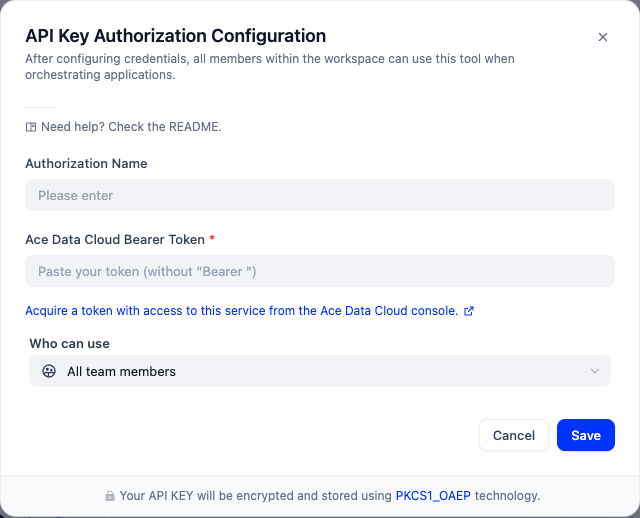
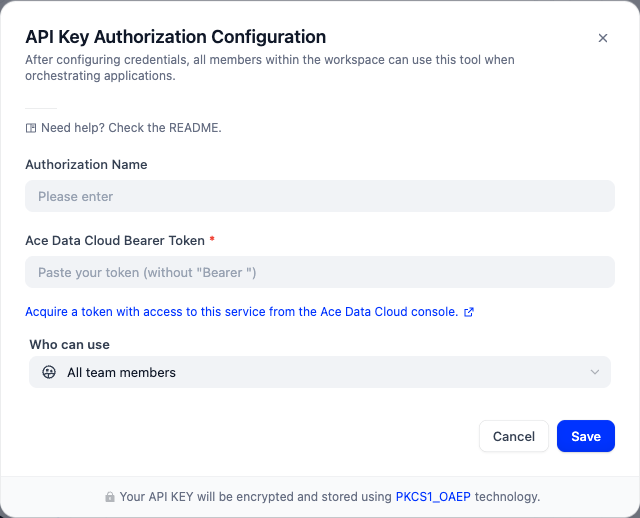
Release Nano Banana 2.1 support in Dify plugin 0.0.3 (#7)
* docs: show actual signed Marketplace installation and result

* release: prepare Nano Banana 2.1 in plugin 0.0.3

diff --git a/README.md b/README.md
@@ -4,13 +4,14 @@ Generate one Nano Banana image from a prompt. This guide takes you from your fir
 
 [Read in Simplified Chinese](https://github.com/AceDataCloud/NanoBananaDify/blob/main/readme/README_zh_Hans.md) · [API and pricing](https://platform.acedata.cloud/models)
 
-> The screenshots below show a real Dify developer preview and previously successful API task. Check the [official Marketplace listing](https://marketplace.dify.ai/plugin/acedatacloud/nano-banana) for the currently available version before installing; a merged source PR alone does not confirm publication.
 
 ## 1. Install the correct plugin
 
-Open [Nano Banana by acedatacloud](https://marketplace.dify.ai/plugin/acedatacloud/nano-banana) in Dify Marketplace. Check the author is **acedatacloud**, choose **Install**, and select your Dify workspace. If it is not listed yet, wait for publication; do not use another similarly named plugin for these steps.
+Open [Nano Banana by acedatacloud](https://marketplace.dify.ai/plugin/acedatacloud/nano-banana) in Dify Marketplace. Check the author is **acedatacloud**, choose **Install**, and select your Dify workspace. In Dify, open **Integrations → Tools → Tool Plugin → Nano Banana**.
 
 If your Dify server cannot open Marketplace, ask its administrator to enable outbound access and plugin installation. The plugin needs HTTPS to `api.acedata.cloud`.
+
+![Installed Nano Banana plugin](https://raw.githubusercontent.com/AceDataCloud/NanoBananaDify/2522b2f57210597af2db866445319334a1677a23/_assets/tutorial/01-installed.png)
 
 ## 2. Get an API key with the correct access
 
@@ -18,32 +19,32 @@ If your Dify server cannot open Marketplace, ask its administrator to enable out
 2. Open **General application**. Its API key can access multiple services your account is entitled to use. A service-specific key is limited to that service. For this tutorial, check **Nano Banana** access and current pricing/balance before generating.
 3. To reuse the selected key, click the copy icon marked **1** below. To create a separate Dify key, click **Manage Keys** marked **2**, then **Create**.
 
-![Copy an existing API key or open Manage Keys](https://raw.githubusercontent.com/AceDataCloud/NanoBananaDify/0030b9cacf315147a45af5512b6f3d485524db5c/_assets/tutorial/get-api-key-en.png)
+![Copy an existing API key or open Manage Keys](https://raw.githubusercontent.com/AceDataCloud/NanoBananaDify/2522b2f57210597af2db866445319334a1677a23/_assets/tutorial/get-api-key-en.png)
 
 4. Give the new key a name, such as `Dify tutorial`. Set expiration and usage/API restrictions only as needed, then click **Create**. Return to the key list or application card and copy the key. If **Allowed APIs** is enabled, include both the generation and task-query APIs used here: `/nano-banana/images`, `/nano-banana/tasks`.
 
-![Create an optional separate key](https://raw.githubusercontent.com/AceDataCloud/NanoBananaDify/0030b9cacf315147a45af5512b6f3d485524db5c/_assets/tutorial/create-api-key-en.png)
+![Create an optional separate key](https://raw.githubusercontent.com/AceDataCloud/NanoBananaDify/2522b2f57210597af2db866445319334a1677a23/_assets/tutorial/create-api-key-en.png)
 
-Copy only the token string. Do not add `Bearer `, quotation marks, or the screenshot's redacted characters. A platform management token (for example, a `platform-...` token) is not the generation API key this plugin expects. Free quota and model entitlement are not guaranteed.
+Copy only the token string. Do not add `Bearer `, quotation marks, or the screenshot's redacted characters. A platform management token (for example, a `platform-...` token) is not the generation API key this plugin expects. Confirm service access and a sufficient balance before the first run.
 
 ## 3. Authorize Nano Banana in Dify
 
 1. Open **Integrations → Tools → Tool Plugin → Nano Banana**.
 2. Click **API Key Authorization Configuration**. If an authorization already exists, click **1 Authorization** first, then the configuration button.
 3. Enter an **Authorization Name**, such as `Ace Data Cloud`, and paste the copied token into **Ace Data Cloud Bearer Token**.
-4. Choose who may use the credential and click **Save**. The screenshot shows the shared tool-authorization dialog; GPT Image is the pictured example. Never put a key in a prompt or workflow export.
+4. Choose who may use the credential and click **Save**. Never put a key in a prompt or workflow export.
 
-![Dify tool authorization dialog](https://raw.githubusercontent.com/AceDataCloud/NanoBananaDify/0030b9cacf315147a45af5512b6f3d485524db5c/_assets/tutorial/02-authorize.png)
+![Dify tool authorization dialog](https://raw.githubusercontent.com/AceDataCloud/NanoBananaDify/2522b2f57210597af2db866445319334a1677a23/_assets/tutorial/02-authorize.png)
 
 ## 4. Build your first Workflow
 
-Open **Studio → Create from Blank → Workflow**, name it, and create this path by dragging from each node's right connector to the next node:
+Open **Studio → Create → Create from Blank → Workflow**, name it, and create this path by dragging from each node's right connector to the next node:
 
 **Start → Nano Banana Generate Image → Nano Banana Retrieve Task → Output**.
 
 Use the **+** button to add a **Tool**, select this plugin, and choose the exact action above. Rename the generation node **Nano Banana** and the query node **Retrieve completed task** to match the screenshots. Leave Start inputs empty for this fixed first example. Keep **Retry on Failure** off on the generation node.
 
-![Workflow connections](https://raw.githubusercontent.com/AceDataCloud/NanoBananaDify/0030b9cacf315147a45af5512b6f3d485524db5c/_assets/tutorial/03-workflow.png)
+![Workflow connections](https://raw.githubusercontent.com/AceDataCloud/NanoBananaDify/2522b2f57210597af2db866445319334a1677a23/_assets/tutorial/03-workflow.png)
 
 Select **Nano Banana Generate Image** and set these fields. Leave unmentioned optional fields empty.
 
@@ -62,13 +63,13 @@ A single teal ceramic cube on a plain cream background, studio product photograp
 
 For editing, select **Nano Banana Edit Image**, set **Reference image URLs** to a JSON array such as `["https://your-domain.example/input.png"]`, and describe the change. Replace the placeholder URL with your own accessible image. Model variants have separate access and pricing.
 
-![Fill the generation or search parameters](https://raw.githubusercontent.com/AceDataCloud/NanoBananaDify/0030b9cacf315147a45af5512b6f3d485524db5c/_assets/tutorial/03-configure.png)
+![Fill the generation or search parameters](https://raw.githubusercontent.com/AceDataCloud/NanoBananaDify/2522b2f57210597af2db866445319334a1677a23/_assets/tutorial/03-configure.png)
 
 ## 5. Wait for the same task and map the result
 
-Select **Nano Banana Retrieve Task**. In **Task ID**, click the variable picker (or type `/`) and choose **Nano Banana → task_id**. It must be the output variable from the generation node, not its name typed as plain text. The DSL representation is `{{#generate.task_id#}}`. Set **Wait up to seconds** to `240`; leave Trace ID empty for this example.
+Select **Nano Banana Retrieve Task**. In **Task ID**, click the variable picker (or type `/`) and choose **Nano Banana → task_id**. It must be the output variable from the generation node, not its name typed as plain text. Set **Wait up to seconds** to `240`; leave Trace ID empty for this example.
 
-![Task ID variable binding](https://raw.githubusercontent.com/AceDataCloud/NanoBananaDify/0030b9cacf315147a45af5512b6f3d485524db5c/_assets/tutorial/04-task-id.png)
+![Task ID variable binding](https://raw.githubusercontent.com/AceDataCloud/NanoBananaDify/2522b2f57210597af2db866445319334a1677a23/_assets/tutorial/04-task-id.png)
 
 Select **Output**, click **+** to add output fields, and choose the variables below from **Retrieve completed task**:
 
@@ -80,7 +81,7 @@ Select **Output**, click **+** to add output fields, and choose the variables be
 | media_urls | media_urls | Array[String] |
 | result | result | Object |
 
-![Map the query outputs](https://raw.githubusercontent.com/AceDataCloud/NanoBananaDify/0030b9cacf315147a45af5512b6f3d485524db5c/_assets/tutorial/05-output.png)
+![Map the query outputs](https://raw.githubusercontent.com/AceDataCloud/NanoBananaDify/2522b2f57210597af2db866445319334a1677a23/_assets/tutorial/05-output.png)
 
 Click **Test Run → Start Run**. Generation may finish before the bounded wait expires; otherwise `status=pending` is normal. **Do not rerun the whole workflow while it is pending**, because that submits a new generation. Copy its task ID and create a separate **Start → Nano Banana Retrieve Task → Output** workflow with that ID and a wait of 0 or 240. Query the same ID until `status=succeeded` and `success=true`; then open the links in `media_urls`. A green Dify workflow alone is not proof that the service task finished.
 
@@ -98,9 +99,13 @@ A completed result has this shape (the URL below illustrates the field; use your
 }
 ```
 
-![Actual completed Dify result](https://raw.githubusercontent.com/AceDataCloud/NanoBananaDify/0030b9cacf315147a45af5512b6f3d485524db5c/_assets/tutorial/06-result.png)
+![Actual completed Dify result](https://raw.githubusercontent.com/AceDataCloud/NanoBananaDify/2522b2f57210597af2db866445319334a1677a23/_assets/tutorial/06-result.png)
 
-This is a real previously successful run, reused for the guide without another paid generation. Nano was tested through Dify developer preview; it does not prove Marketplace publication. Your task ID and media URL will differ.
+Actual Dify workflow after installing version 0.0.2 from the official Marketplace on October 11, 2026. The service returned a completed 1024×1024 image. Your task ID and media URL will differ.
+
+Version 0.0.3 adds `nano-banana-2.1` to generation and editing. Select it in **Model**; 1K, 2K and 4K are available. The default remains `nano-banana-2-lite`. Check current model pricing before switching.
+
+[Download the ready-to-import workflow](https://github.com/AceDataCloud/NanoBananaDify/raw/refs/heads/main/docs/quickstart.dify.yml). Install this plugin first, import the workflow in Studio, then configure your own credential.
 
 ## Troubleshooting
 
